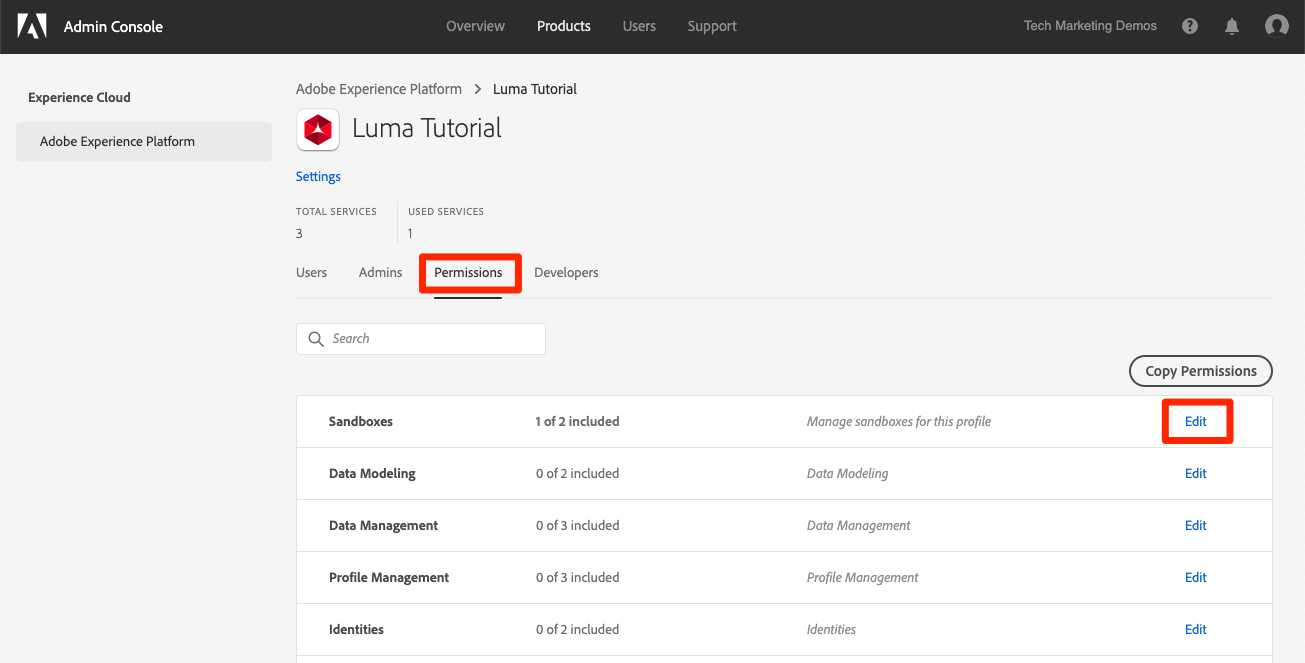
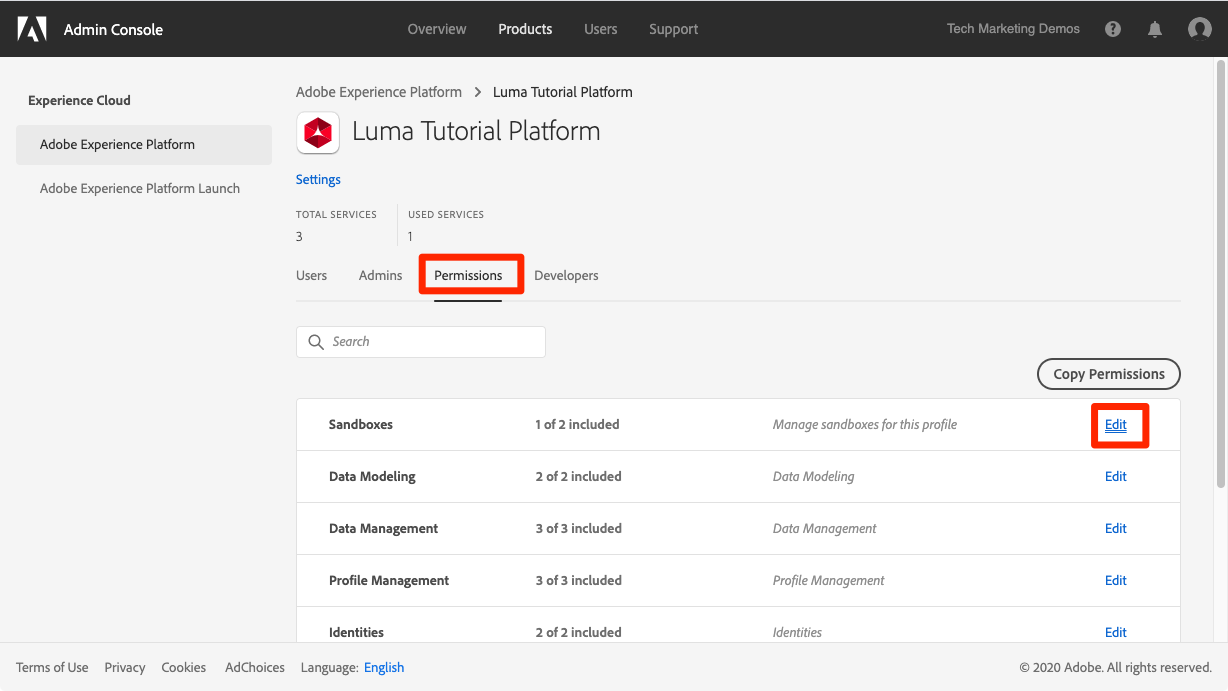
Updates to create a sandbox

diff --git a/help/tutorial-data-architect-and-engineer/create-a-sandbox.md b/help/tutorial-data-architect-and-engineer/create-a-sandbox.md
@@ -34,6 +34,7 @@ In the [Configure Permissions](configure-permissions.md) lesson, you setup all t
 
 Let's create a sandbox:
 
+1. Log into the [Adobe Experience Platform](https://experience.adobe.com/platform) interface
 1. Click **[!UICONTROL Sandboxes]** in the left navigation
 1. Click **[!UICONTROL Create sandbox]** on the top right
    ![](assets/sandbox-createSandbox.png)
@@ -46,7 +47,7 @@ Let's create a sandbox:
    >
    >While you could use any arbitrary values for your sandbox name and title, sticking to the values suggested is recommended as we will refer to these labels throughout the tutorial
 
-Sandboxes take approximately fifteen minutes to create and "[!UICONTROL Creating]" status will display:
+Sandboxes take approximately fifteen minutes to create and a "[!UICONTROL Creating]" status will display during this time:
    ![](assets/sandbox-creating.png)
 
 Wait until your sandbox is "[!UICONTROL Active]" before continuing to the next steps:
@@ -56,13 +57,11 @@ Wait until your sandbox is "[!UICONTROL Active]" before continuing to the next s
 
 ## Add the new sandbox to the product profile
 
-Although the sandbox is now active, you will not be able to start using it until you have included it in your product profile via the Admin Console.
+Once the sandbox is active, you need to include it in your product profile in order to use it. To add it to your product profile:
 
-### Update the product profile
-
-1. Log into the [Admin Console](https://adminconsole.adobe.com)
-1. Select **[!UICONTROL Products > Adobe Experience Platform]**
-1. Click on the [!UICONTROL Product Profile] containing the `Luma Tutorial` profile
+1. In a separate browser tab, log into the [Admin Console](https://adminconsole.adobe.com)
+1. Go to **[!UICONTROL Products > Adobe Experience Platform]**
+1. Open the `Luma Tutorial Platform` profile
 
     ![Select the Product Profile](assets/sandbox-selectProfile.png)
 
@@ -76,11 +75,14 @@ Although the sandbox is now active, you will not be able to start using it until
 
     ![Move the Sandbox to the other column](assets/sandbox-moveToOtherColumn.png)
 
+1. Remove the arbitrary sandbox you assigned to the profile originally
 1. Click **[!UICONTROL Save]** to save the updated permissions  
 
     ![Save Permissions](assets/sandbox-savePermissions.png)
 
-1. If you reload the You should now be able to see the new sandbox appear in the sandbox dropdown in the Platform interface:
+1. Go back to the browser tab with Experience Platform
+1. Reload the page and you should now either be in the `Luma Tutorial` sandbox or it should appear in your sandbox dropdown
+1. Switch to the `Luma Tutorial` sandbox if you aren't already in it
 
    ![Confirm Sandbox](assets/sandbox-confirmDropdown.png)
 
@@ -88,3 +90,6 @@ Although the sandbox is now active, you will not be able to start using it until
 
 * [Sandboxes documentation](https://docs.adobe.com/content/help/en/experience-platform/sandbox/home.html)
 * [Sandbox API reference](https://www.adobe.io/apis/experienceplatform/home/api-reference.html#!acpdr/swagger-specs/sandbox-api.yaml)
+
+
+Great, you've created your sandbox and are ready to [Set up Adobe IO and Postman](set-up-adobe-io-and-postman.md)!

diff --git a/help/tutorial-data-architect-and-engineer/configure-permissions.md b/help/tutorial-data-architect-and-engineer/configure-permissions.md
@@ -193,3 +193,5 @@ You will not need to add yourself as a Developer for Launch.
 * [Adobe Admin Console documentation](https://helpx.adobe.com/enterprise/using/admin-console.html)
 * [Access Control documentation](https://docs.adobe.com/content/help/en/experience-platform/access-control/home.html)
 * [Access Control API](https://www.adobe.io/apis/experienceplatform/home/api-reference.html#!acpdr/swagger-specs/access-control.yaml)
+
+Great! You've learned quite a bit about the Adobe Admin Console as you added your permissions and are now ready to [create a sandbox](create-a-sandbox.md)!
